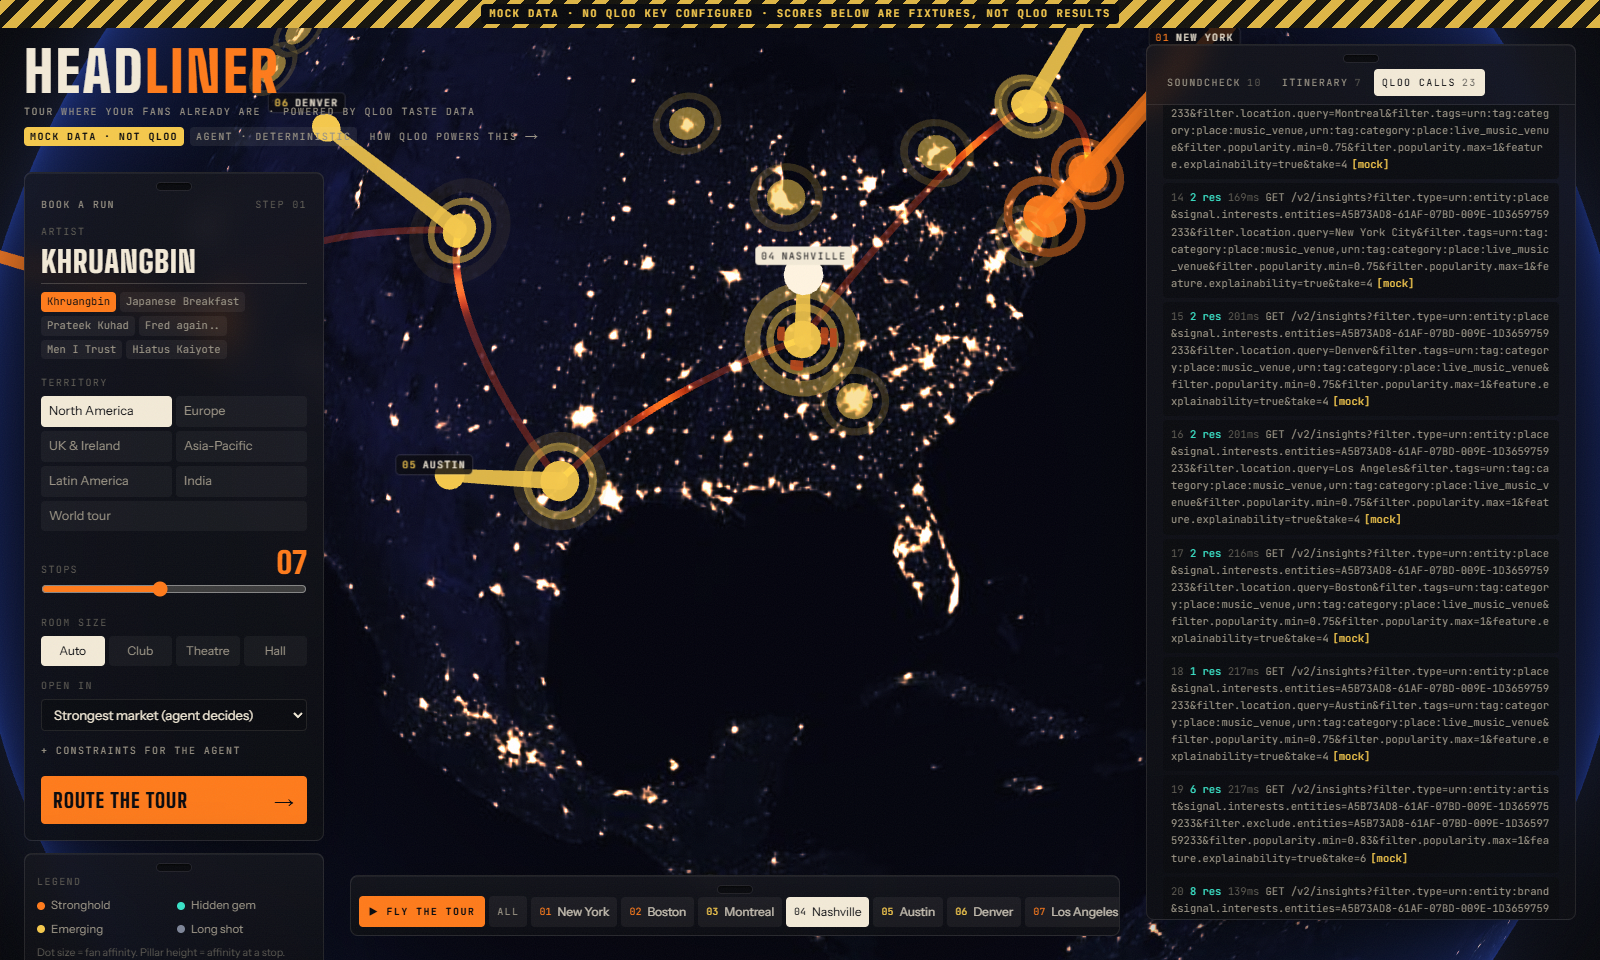
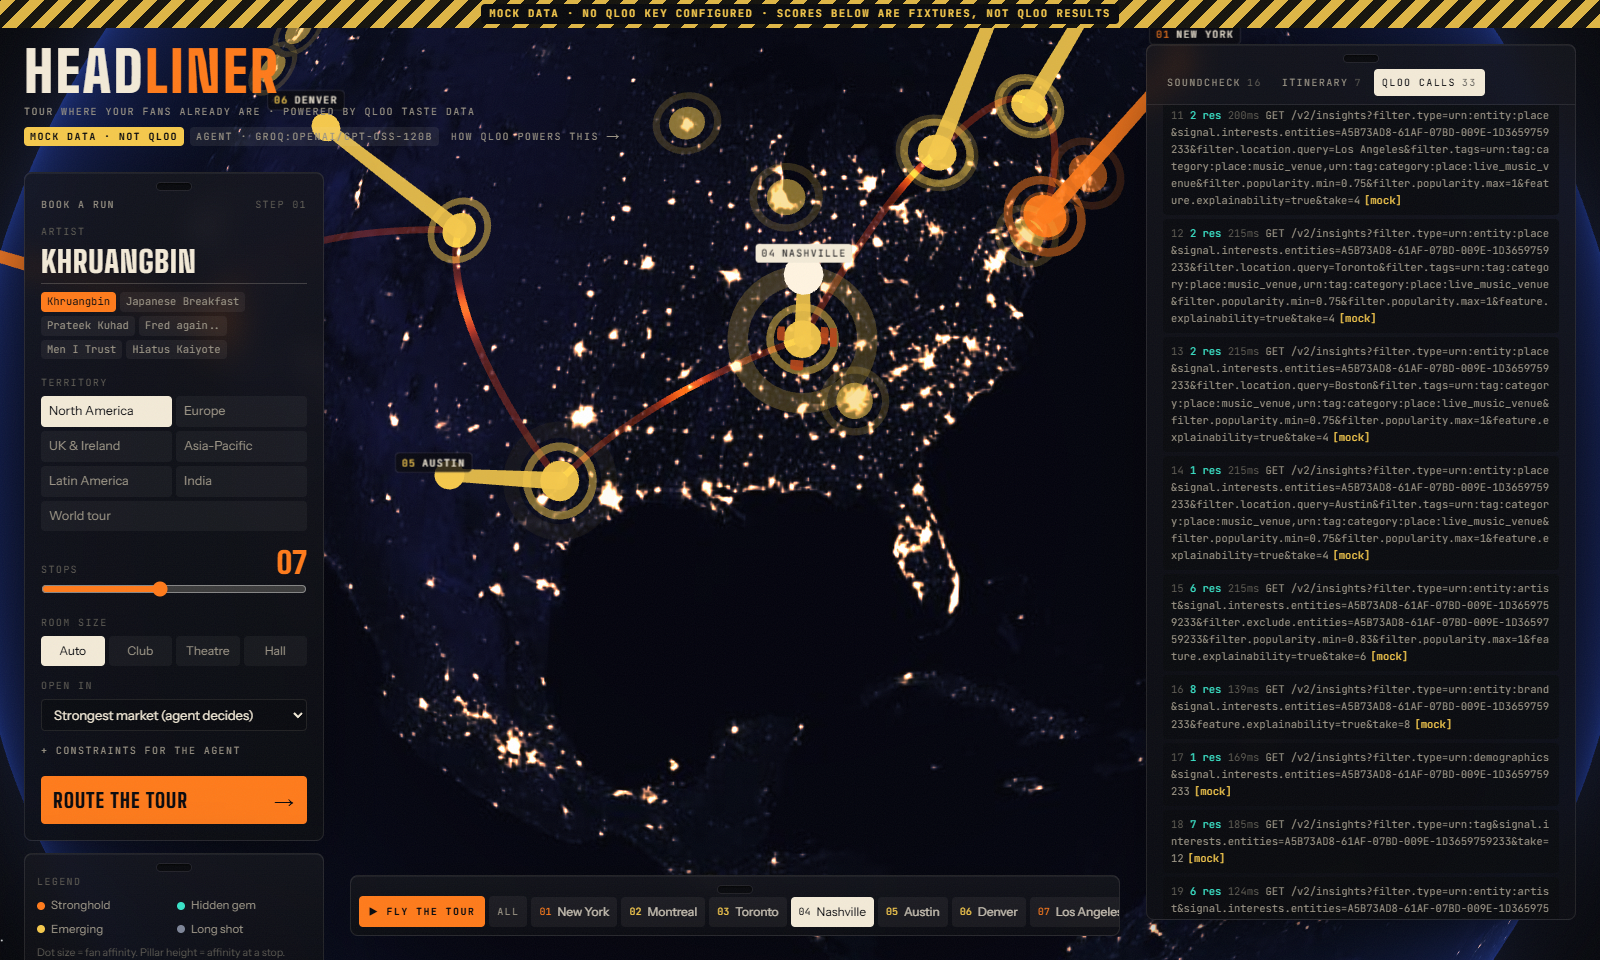
docs: LLM eval harness and results, refreshed screenshots

diff --git a/README.md b/README.md
@@ -43,11 +43,18 @@ market isn't crowded yet: a **hidden gem**.
 6. **Bill:** similar artists (`urn:entity:artist`, excluding the headliner) at peer and smaller
    popularity bands, used as co-headliners and support.
 7. **Partners and audience:** `urn:entity:brand`, `urn:demographics` and `urn:tag` insights.
-8. **Plan:** an LLM (Groq or OpenAI, tool-calling) reads the evidence and writes a *draft*. The
-   draft may only reference IDs that Qloo returned. The server hydrates every number, coordinate
-   and leg from the evidence ledger, drops anything invented (and shows what it dropped in the
-   timeline), routes the stops with nearest-neighbour plus 2-opt, and validates the result with zod.
-   Without an LLM key, a deterministic planner runs the same tools in a fixed order.
+8. **Plan:** steps 1–7 run as a fixed research pass. The LLM (Groq `openai/gpt-oss-120b` by
+   default, tool calling) then gets a compact evidence digest, with Qloo IDs swapped for short
+   aliases (`v3`, `a2`, `b1`). It picks the cities, rooms, bill and brands, and can call follow-up
+   tools (`find_venues` with a room type, `similar_artists`) before it calls `submit_tour_plan`.
+   The server checks the draft: valid IDs, the exact stop count, and the start and close cities.
+   Every number cited in a stop reason must be that stop's own Qloo number, and any "hidden gem" or
+   "stronghold" label must match its computed read. A failing draft goes back to the model once
+   for correction. The server then hydrates every number, coordinate and leg from the evidence
+   ledger, drops anything invented (the timeline shows what was dropped), routes the stops with
+   nearest-neighbour plus 2-opt, and validates the result with zod. On a rate limit it moves to
+   the next model in the chain; any other failure finishes with the deterministic planner. Without
+   an LLM key, the deterministic planner runs on its own.
 
 Each step streams to the **Soundcheck** timeline. The **Qloo calls** tab lists every request with
 its parameters, duration and result count. The key is never shown.
@@ -83,15 +90,18 @@ pnpm dev                     # http://localhost:3000
 | `pnpm test` | vitest: plan schema, hydration/anti-hallucination, routing, Qloo mapping, HTTP client, mock transport |
 | `pnpm typecheck` / `pnpm lint` / `pnpm build` | the usual |
 | `pnpm verify:qloo [artist]` | hits every Qloo endpoint Headliner uses with the real key and prints response shapes |
-| `pnpm shots [url]` | regenerates `shots/` from a running instance (uses the local Chrome) |
+| `pnpm shots [url]` | regenerates `shots/` from a running instance (uses the local Chrome, headless) |
+| `pnpm eval:llm [url] [runs]` | runs 10 artist/territory/constraint cases through `/api/plan` and scores validity, latency, tokens and fallbacks |
 
 ### Environment
 
 All variables are server-side only; none are `NEXT_PUBLIC_`. See [`.env.example`](.env.example).
 
 - `QLOO_API_KEY`: if empty, the app runs on **mock fixtures** and labels them everywhere.
-- `GROQ_API_KEY` or `OPENAI_API_KEY` (or `LLM_PROVIDER` / `LLM_API_KEY` / `LLM_BASE_URL` / `LLM_MODEL`
-  for any OpenAI-compatible endpoint): if none is set, the deterministic planner runs.
+- `GROQ_API_KEY` or `OPENAI_API_KEY` (or `LLM_PROVIDER` / `LLM_API_KEY` / `LLM_BASE_URL` / `LLM_MODEL` /
+  `LLM_FALLBACK_MODELS` for any OpenAI-compatible endpoint): if none is set, the deterministic planner runs.
+  On Groq the default chain is `openai/gpt-oss-120b` → `openai/gpt-oss-20b` → `qwen/qwen3.8-27b`.
+  Groq's free tier allows 8K tokens per minute per model, and a plan uses about 3–6K.
 
 ## Project layout
 

diff --git a/NEXT.md b/NEXT.md
@@ -104,10 +104,21 @@ payload as a fixture in `test/qloo-client.test.ts`, and run `pnpm test`.
       each map looks plausible and that the Qloo calls tab shows no `[mock]` tags.
 - [ ] Re-tune the opportunity thresholds in `src/lib/plan/routing.ts` to the live distribution
       (mock data was tuned to produce some hidden gems; live data may not).
-- [ ] Add an LLM key (`GROQ_API_KEY` first) and confirm the model supports tool calling. The
-      default is `openai/gpt-oss-120b`; check that it is still listed on Groq. Watch the timeline
-      for "dropped" references, which mean the model tried to cite something Qloo didn't return.
-      **The LLM path has only been exercised by unit tests so far; no real model run has happened.**
+- [x] LLM planner verified on Groq with mock Qloo data (Oct 4). `pnpm eval:llm` gave **10/10
+      valid plans in two consecutive rounds**. The baseline before the redesign was 0/10: Groq's
+      8K-tokens-per-minute cap and provider-side tool-argument validation broke every run.
+
+      | Model (Groq) | Runs ending on it | Valid | Avg turns | Avg tokens | Avg LLM time |
+      | --- | --- | --- | --- | --- | --- |
+      | `openai/gpt-oss-120b` (primary) | 10 | 10 | 1.2 | 3.9K | 9.0s |
+      | `openai/gpt-oss-20b` (fallback 1) | 8 | 8 | 1.5 | 5.0K | 13.6s |
+      | `qwen/qwen3.8-27b` (fallback 2) | 2 | 2 | 2.0 | 7.0K | 14.9s |
+
+      Across the 20 runs, total time per run had a median of about 11–14s and a maximum of 33s,
+      with 2 provider-rejected tool calls (both recovered). Llama 3.3 70B and Kimi K2 aren't served
+      on this Groq account. Qwen has a 1K output-tokens-per-minute cap, so it is last resort only.
+- [ ] Re-run `pnpm eval:llm` with the live Qloo key. The reasons' claims check (every cited number
+      must be the stop's own) will catch mapping problems quickly.
 - [ ] `pnpm shots` against the live build, then replace the mock screenshots in `shots/` and the README.
       Check them for any key or personal data before committing.
 - [ ] Update the README example block with a real (redacted) request→result.
